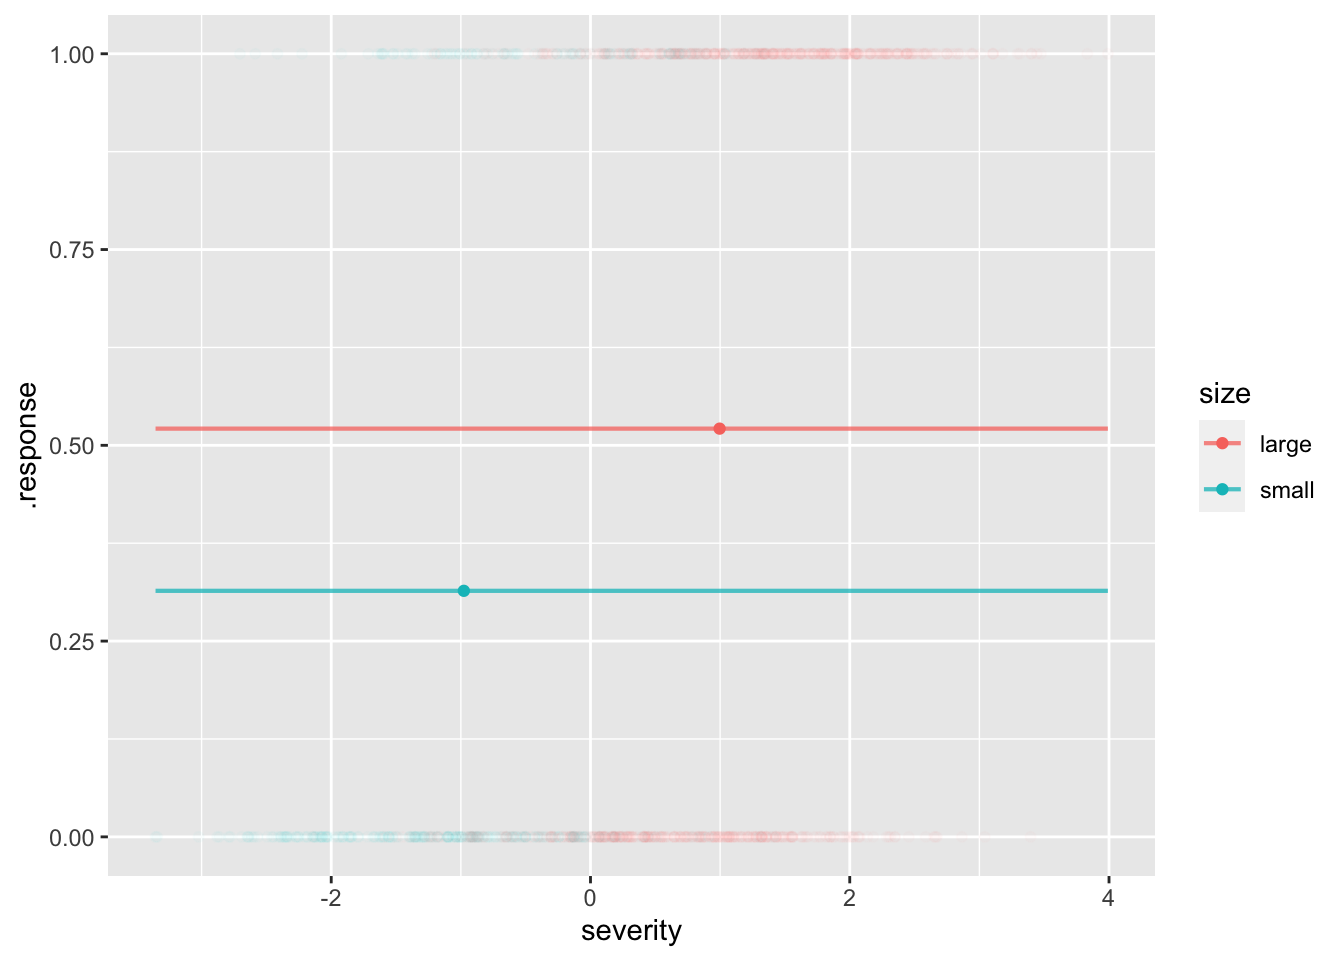
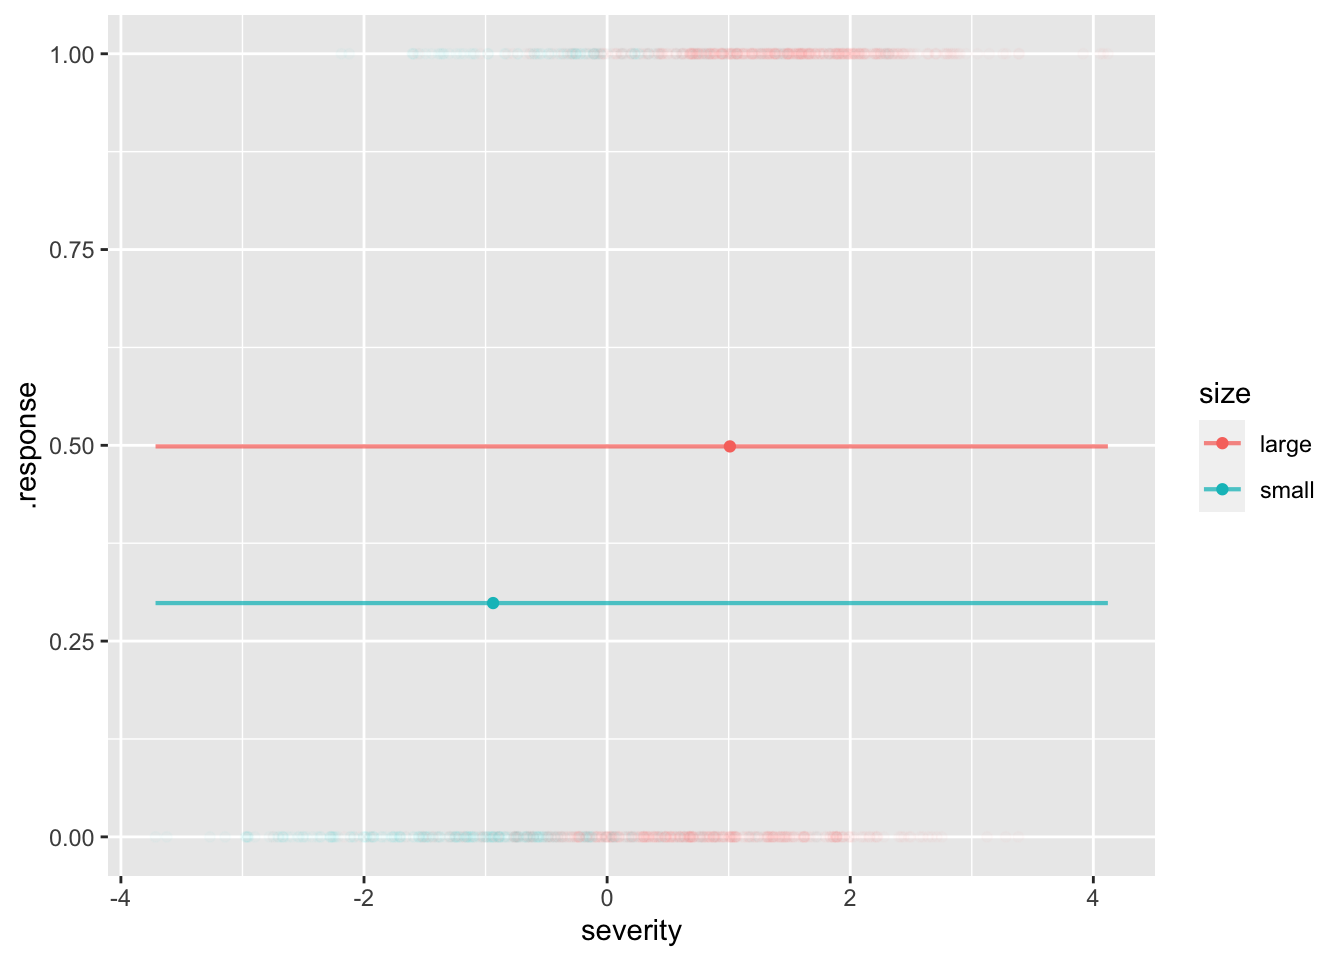
Added UCBerkeley problem to Lesson 29

diff --git a/docs/Day-by-day/Lesson-29/Teaching-notes-29.html b/docs/Day-by-day/Lesson-29/Teaching-notes-29.html
@@ -124,6 +124,7 @@ code span.wa { color: #60a0b0; font-weight: bold; font-style: italic; } /* Warni
   }
 }</script>
 
+  <script src="https://cdn.jsdelivr.net/npm/mathjax@3/es5/tex-chtml-full.js" type="text/javascript"></script>
 
 <link rel="stylesheet" href="styles.css">
 </head>
@@ -221,8 +222,8 @@ code span.wa { color: #60a0b0; font-weight: bold; font-style: italic; } /* Warni
 <pre><code># A tibble: 2 × 3
   size  msevere   bad
   &lt;chr&gt;   &lt;dbl&gt; &lt;dbl&gt;
-1 large   0.996 0.521
-2 small  -0.977 0.314</code></pre>
+1 large   1.01  0.499
+2 small  -0.938 0.299</code></pre>
 </div>
 </div>
 <div class="cell">
@@ -255,8 +256,8 @@ code span.wa { color: #60a0b0; font-weight: bold; font-style: italic; } /* Warni
 <span id="cb8-2"><a href="#cb8-2" aria-hidden="true" tabindex="-1"></a>           <span class="at">interval=</span><span class="st">"confidence"</span>)</span></code><button title="Copy to Clipboard" class="code-copy-button"><i class="bi"></i></button></pre></div>
 <div class="cell-output cell-output-stdout">
 <pre><code>  severity  size   .output      .lwr      .upr
-1        0 small 0.4925165 0.4085322 0.5769254
-2        0 large 0.3121876 0.2632051 0.3657605</code></pre>
+1        0 small 0.4870348 0.3998217 0.5750446
+2        0 large 0.2959143 0.2477440 0.3491042</code></pre>
 </div>
 </div>
 <p>The <strong>effect size</strong> w.r.t. an explanatory variable is automatically adjusted for all the covariates.</p>
@@ -377,6 +378,84 @@ dbl (7): age, male, mnum, mlife_exp, female, fnum, flife_exp
 <div class="cell">
 <div class="cell-output-display">
 <p><img src="age-adjusted-death-rates.png" class="img-fluid" width="376"></p>
+</div>
+</div>
+</section>
+<section id="back-to-berkeley" class="level2">
+<h2 class="anchored" data-anchor-id="back-to-berkeley">Back to Berkeley</h2>
+<div class="cell">
+<div class="sourceCode cell-code" id="cb25"><pre class="sourceCode r code-with-copy"><code class="sourceCode r"><span id="cb25-1"><a href="#cb25-1" aria-hidden="true" tabindex="-1"></a>mod1 <span class="ot">&lt;-</span> <span class="fu">model_train</span>(<span class="fu">zero_one</span>(admit, <span class="at">one=</span><span class="st">"admitted"</span>) <span class="sc">~</span> gender,</span>
+<span id="cb25-2"><a href="#cb25-2" aria-hidden="true" tabindex="-1"></a>                    <span class="at">data=</span>UCB_applicants)</span>
+<span id="cb25-3"><a href="#cb25-3" aria-hidden="true" tabindex="-1"></a><span class="fu">model_plot</span>(mod1, <span class="at">x=</span>dept, <span class="at">color=</span>gender, <span class="at">nlevels=</span><span class="dv">10</span>) <span class="sc">+</span></span>
+<span id="cb25-4"><a href="#cb25-4" aria-hidden="true" tabindex="-1"></a>  <span class="fu">ylab</span>(<span class="st">"Admitted"</span>)</span></code><button title="Copy to Clipboard" class="code-copy-button"><i class="bi"></i></button></pre></div>
+<div class="cell-output-display">
+<p><img src="Teaching-notes-29_files/figure-html/unnamed-chunk-15-1.png" class="img-fluid" width="672"></p>
+</div>
+</div>
+<div class="cell">
+<div class="sourceCode cell-code" id="cb26"><pre class="sourceCode r code-with-copy"><code class="sourceCode r"><span id="cb26-1"><a href="#cb26-1" aria-hidden="true" tabindex="-1"></a>mod2 <span class="ot">&lt;-</span> <span class="fu">model_train</span>(<span class="fu">zero_one</span>(admit, <span class="at">one=</span><span class="st">"admitted"</span>) <span class="sc">~</span> gender<span class="sc">*</span>dept,</span>
+<span id="cb26-2"><a href="#cb26-2" aria-hidden="true" tabindex="-1"></a>                    <span class="at">data=</span>UCB_applicants)</span>
+<span id="cb26-3"><a href="#cb26-3" aria-hidden="true" tabindex="-1"></a><span class="fu">model_plot</span>(mod2, <span class="at">x=</span>dept, <span class="at">color=</span>gender, <span class="at">nlevels=</span><span class="dv">10</span>, <span class="at">data_alpha=</span><span class="fl">0.1</span>) <span class="sc">+</span></span>
+<span id="cb26-4"><a href="#cb26-4" aria-hidden="true" tabindex="-1"></a>  <span class="fu">ylab</span>(<span class="st">"Admitted"</span>)</span></code><button title="Copy to Clipboard" class="code-copy-button"><i class="bi"></i></button></pre></div>
+<div class="cell-output-display">
+<p><img src="Teaching-notes-29_files/figure-html/unnamed-chunk-16-1.png" class="img-fluid" width="672"></p>
+</div>
+</div>
+<div class="cell">
+<div class="sourceCode cell-code" id="cb27"><pre class="sourceCode r code-with-copy"><code class="sourceCode r"><span id="cb27-1"><a href="#cb27-1" aria-hidden="true" tabindex="-1"></a><span class="fu">model_train</span>(<span class="fu">zero_one</span>(admit, <span class="at">one=</span><span class="st">"admitted"</span>) <span class="sc">~</span> gender, </span>
+<span id="cb27-2"><a href="#cb27-2" aria-hidden="true" tabindex="-1"></a>            <span class="at">data=</span>UCB_applicants) <span class="sc">|&gt;</span> <span class="fu">conf_interval</span>()</span></code><button title="Copy to Clipboard" class="code-copy-button"><i class="bi"></i></button></pre></div>
+<div class="cell-output cell-output-stderr">
+<pre><code>Waiting for profiling to be done...</code></pre>
+</div>
+<div class="cell-output cell-output-stdout">
+<pre><code># A tibble: 2 × 4
+  term          .lwr  .coef   .upr
+  &lt;chr&gt;        &lt;dbl&gt;  &lt;dbl&gt;  &lt;dbl&gt;
+1 (Intercept) -0.931 -0.830 -0.732
+2 gendermale   0.485  0.610  0.736</code></pre>
+</div>
+<div class="sourceCode cell-code" id="cb30"><pre class="sourceCode r code-with-copy"><code class="sourceCode r"><span id="cb30-1"><a href="#cb30-1" aria-hidden="true" tabindex="-1"></a><span class="fu">model_train</span>(<span class="fu">zero_one</span>(admit, <span class="at">one=</span><span class="st">"admitted"</span>) <span class="sc">~</span> gender <span class="sc">+</span> dept, </span>
+<span id="cb30-2"><a href="#cb30-2" aria-hidden="true" tabindex="-1"></a>            <span class="at">data=</span>UCB_applicants) <span class="sc">|&gt;</span> <span class="fu">conf_interval</span>()</span></code><button title="Copy to Clipboard" class="code-copy-button"><i class="bi"></i></button></pre></div>
+<div class="cell-output cell-output-stderr">
+<pre><code>Waiting for profiling to be done...</code></pre>
+</div>
+<div class="cell-output cell-output-stdout">
+<pre><code># A tibble: 7 × 4
+  term          .lwr   .coef    .upr
+  &lt;chr&gt;        &lt;dbl&gt;   &lt;dbl&gt;   &lt;dbl&gt;
+1 (Intercept)  0.488  0.682   0.877 
+2 gendermale  -0.259 -0.0999  0.0582
+3 deptB       -0.258 -0.0434  0.172 
+4 deptC       -1.47  -1.26   -1.05  
+5 deptD       -1.50  -1.29   -1.09  
+6 deptE       -1.99  -1.74   -1.49  
+7 deptF       -3.65  -3.31   -2.98  </code></pre>
+</div>
+</div>
+</section>
+<section id="for-lesson-30" class="level2">
+<h2 class="anchored" data-anchor-id="for-lesson-30">For Lesson 30?</h2>
+<p>Should we adjust for department? Let’s go to a DAG.</p>
+<div class="cell">
+<div class="sourceCode cell-code" id="cb33"><pre class="sourceCode r code-with-copy"><code class="sourceCode r"><span id="cb33-1"><a href="#cb33-1" aria-hidden="true" tabindex="-1"></a>UCB_dag1 <span class="ot">&lt;-</span> <span class="fu">dag_make</span>(sex <span class="sc">~</span> <span class="fu">exo</span>(),</span>
+<span id="cb33-2"><a href="#cb33-2" aria-hidden="true" tabindex="-1"></a>                     dept <span class="sc">~</span> sex,</span>
+<span id="cb33-3"><a href="#cb33-3" aria-hidden="true" tabindex="-1"></a>                     admit <span class="sc">~</span> sex <span class="sc">+</span> dept)</span>
+<span id="cb33-4"><a href="#cb33-4" aria-hidden="true" tabindex="-1"></a><span class="fu">dag_draw</span>(UCB_dag1, <span class="at">vertex.label.cex=</span><span class="dv">1</span>)</span></code><button title="Copy to Clipboard" class="code-copy-button"><i class="bi"></i></button></pre></div>
+<div class="cell-output-display">
+<p><img src="Teaching-notes-29_files/figure-html/unnamed-chunk-18-1.png" class="img-fluid" width="672"></p>
+</div>
+</div>
+<p>If we think that the connection sex <span class="math inline">\(\longrightarrow\)</span> department is just a matter of personal choice (as in the 1975 <em>Science</em> article), then we should block the back-door pathway.</p>
+<p>But if we think that sex <span class="math inline">\(\longrightarrow\)</span> department reflects systemic issues such as which departments are considered important and get funding, or which careers women think they can succeed in, then we <strong>do not</strong> want to block the backdoor pathway.</p>
+<div class="cell">
+<div class="sourceCode cell-code" id="cb34"><pre class="sourceCode r code-with-copy"><code class="sourceCode r"><span id="cb34-1"><a href="#cb34-1" aria-hidden="true" tabindex="-1"></a>UCB_dag2 <span class="ot">&lt;-</span> <span class="fu">dag_make</span>(sex <span class="sc">~</span> <span class="fu">exo</span>(),</span>
+<span id="cb34-2"><a href="#cb34-2" aria-hidden="true" tabindex="-1"></a>                     success <span class="sc">~</span> sex,</span>
+<span id="cb34-3"><a href="#cb34-3" aria-hidden="true" tabindex="-1"></a>                     funding <span class="sc">~</span> sex,</span>
+<span id="cb34-4"><a href="#cb34-4" aria-hidden="true" tabindex="-1"></a>                     dept <span class="sc">~</span> success,</span>
+<span id="cb34-5"><a href="#cb34-5" aria-hidden="true" tabindex="-1"></a>                     admit <span class="sc">~</span> sex <span class="sc">+</span> dept <span class="sc">+</span> funding)</span>
+<span id="cb34-6"><a href="#cb34-6" aria-hidden="true" tabindex="-1"></a><span class="fu">dag_draw</span>(UCB_dag2, <span class="at">vertex.label.cex=</span><span class="dv">1</span>)</span></code><button title="Copy to Clipboard" class="code-copy-button"><i class="bi"></i></button></pre></div>
+<div class="cell-output-display">
+<p><img src="Teaching-notes-29_files/figure-html/unnamed-chunk-19-1.png" class="img-fluid" width="672"></p>
 </div>
 </div>
 
